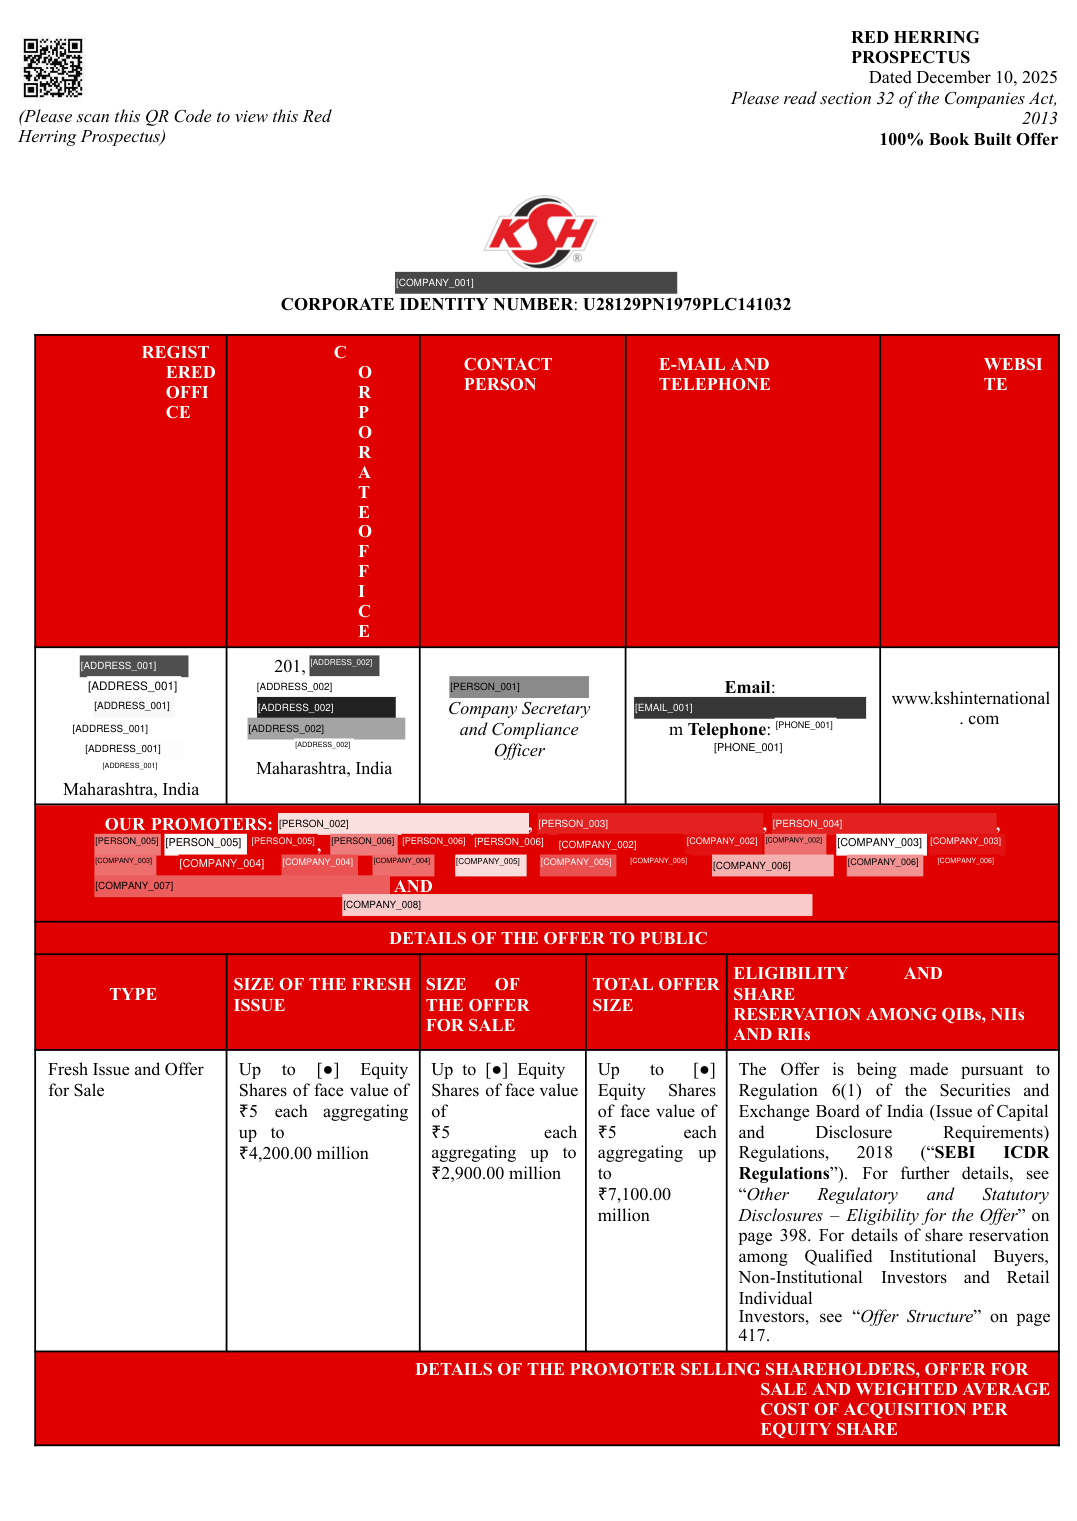
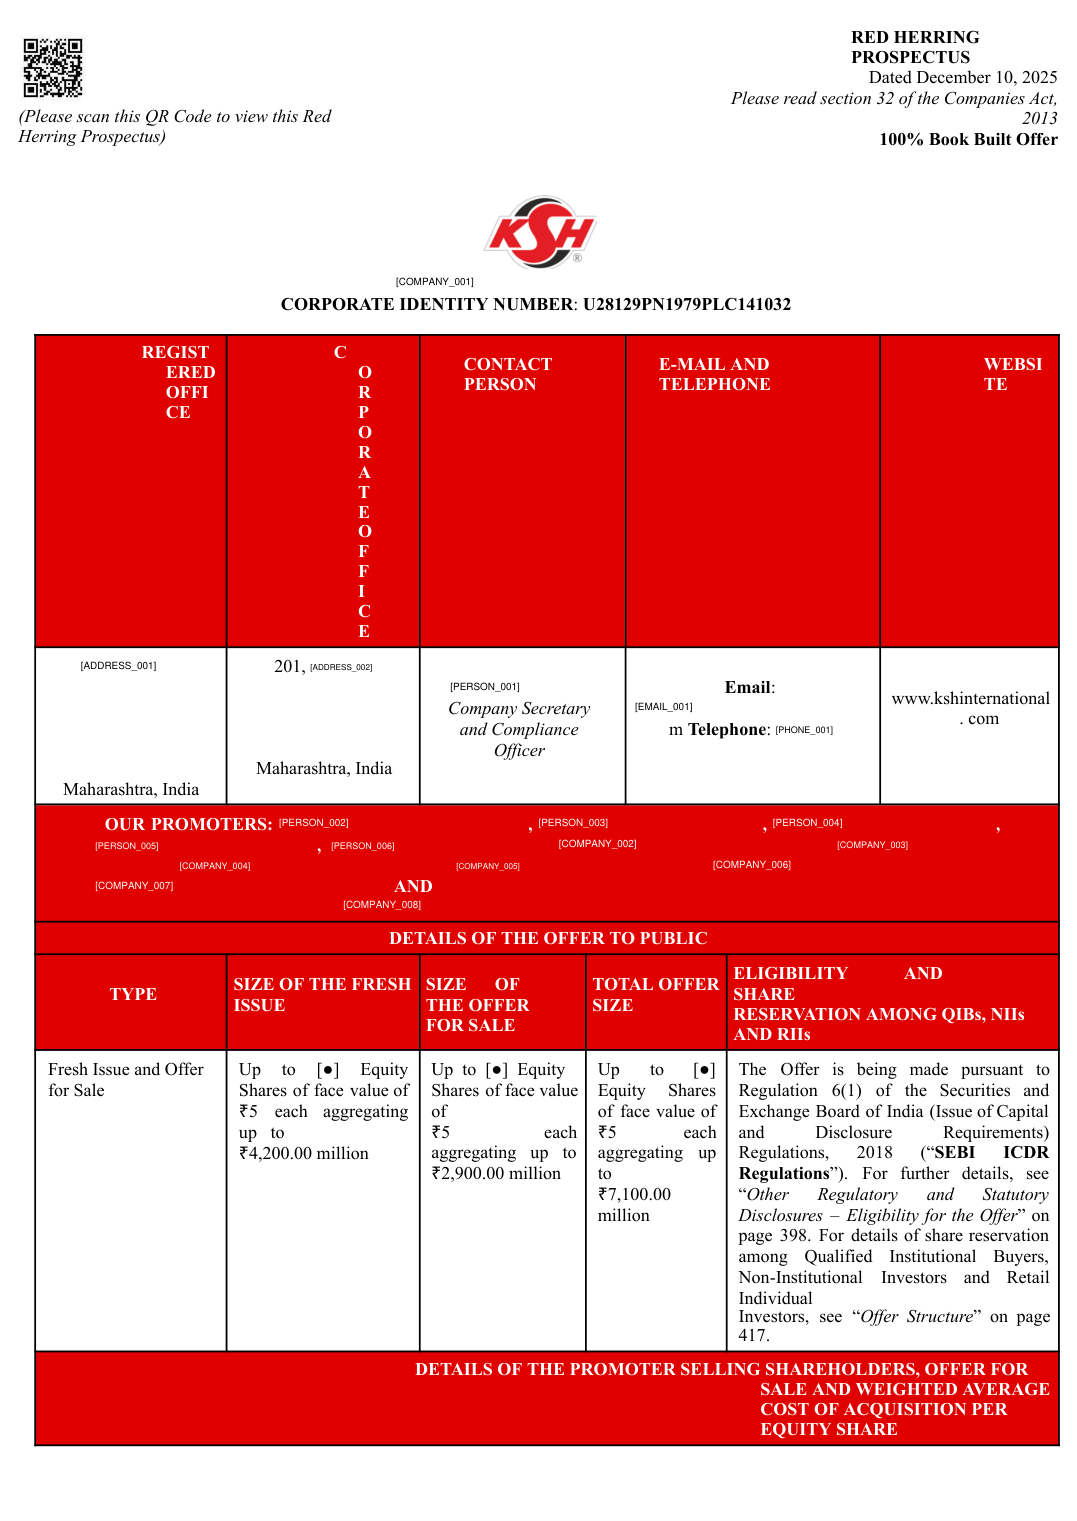
fix: handle narrow table cells in PDF redaction
- Aggressive font scaling (min 2.5pt) for replacement tokens
- Auto-abbreviate tokens that overflow narrow cells: [PERSON_007] -> [P_007] -> [#007]
- Blank out tokens in truly tiny cells instead of wrapping vertically
- Background color sampling via border pixel analysis preserved
- All 8 unit tests passing, 126-page full document test: 566 redactions in 16.6s

diff --git a/redact_pii.py b/redact_pii.py
@@ -152,6 +152,12 @@ def detect_people(text: str) -> list[Span]:
     return spans
 
 
+COMPANY_PREFIXES_TO_TRIM = [
+    "BOOK RUNNING LEAD MANAGERS", "REGISTRAR TO THE OFFER",
+    "LEAD MANAGERS", "REGISTRAR", "MANAGERS", "NAME OF THE ISSUER",
+    "ISSUER", "OUR COMPANY",
+]
+
 def detect_companies(text: str) -> list[Span]:
     spans = []
     names = sorted(set(COMPANY_NAMES), key=len, reverse=True)
@@ -159,9 +165,22 @@ def detect_companies(text: str) -> list[Span]:
         pattern = re.compile(r"(?<![A-Za-z])" + re.escape(name) + r"(?![A-Za-z])", re.I)
         spans.extend(Span(m.start(), m.end(), "COMPANY") for m in pattern.finditer(text))
     for m in COMPANY_SUFFIX_RE.finditer(text):
-        candidate = m.group(0).strip()
+        s, e = m.start(), m.end()
+        val = text[s:e]
+        # Strip registration numbers like INM000013004
+        reg_m = re.match(r"^[A-Z0-9]{8,25}\s+", val)
+        if reg_m:
+            s += reg_m.end()
+            val = text[s:e]
+        # Strip header prefixes
+        for p in sorted(COMPANY_PREFIXES_TO_TRIM, key=len, reverse=True):
+            pref_m = re.match(r"^(?:" + re.escape(p) + r")\s+", val, re.I)
+            if pref_m:
+                s += pref_m.end()
+                val = text[s:e]
+        candidate = val.strip()
         if len(candidate.split()) >= 2:
-            spans.append(Span(m.start(), m.end(), "COMPANY"))
+            spans.append(Span(s, e, "COMPANY"))
     return spans
 
 
@@ -454,8 +473,32 @@ def docx_to_docx(input_docx: Path, output_docx: Path) -> tuple[int, int, dict[st
 
 
 
+def get_rect_bg_color(page, rect) -> tuple[float, float, float]:
+    """Sample the true background color from the perimeter of the rect."""
+    import pymupdf as fitz
+    from collections import Counter
+    try:
+        clip_pix = page.get_pixmap(clip=rect, matrix=fitz.Matrix(1, 1))
+        w, h = clip_pix.width, clip_pix.height
+        if w == 0 or h == 0:
+            return (1.0, 1.0, 1.0)
+        border_pixels = []
+        for x in range(w):
+            border_pixels.append(clip_pix.pixel(x, 0)[:3])
+            border_pixels.append(clip_pix.pixel(x, h - 1)[:3])
+        for y in range(h):
+            border_pixels.append(clip_pix.pixel(0, y)[:3])
+            border_pixels.append(clip_pix.pixel(w - 1, y)[:3])
+        if not border_pixels:
+            return (1.0, 1.0, 1.0)
+        r, g, b = Counter(border_pixels).most_common(1)[0][0]
+        return (r / 255.0, g / 255.0, b / 255.0)
+    except Exception:
+        return (1.0, 1.0, 1.0)
+
+
 def pdf_to_pdf(pdf_path: Path, output_pdf: Path) -> tuple[int, int, dict[str, int]]:
-    """Redact PII directly inside the PDF using PyMuPDF's proper redaction workflow."""
+    """Redact PII directly inside the PDF preserving original background color and formatting."""
     import pymupdf as fitz  # PyMuPDF
 
     src = fitz.open(str(pdf_path))
@@ -469,47 +512,70 @@ def pdf_to_pdf(pdf_path: Path, output_pdf: Path) -> tuple[int, int, dict[str, in
         text = normalize(raw)
         _, reps = redact_text(text, factory)
 
-        # --- Phase 1: collect unique rects with their fake replacements ---
-        # Map rect-key → (pii_type, fake) so we can sample color before annotating
-        pending: dict[tuple, tuple[str, str]] = {}
+        # Track areas already redacted on this page to prevent stacking
+        covered_rects: list[fitz.Rect] = []
+
         for pii_type, original, fake in reps:
             hits = page.search_for(original, quads=False)
-            for rect in hits:
-                key = (round(rect.x0, 1), round(rect.y0, 1),
-                       round(rect.x1, 1), round(rect.y1, 1))
-                if key not in pending:
-                    pending[key] = (pii_type, fake)
+            if not hits:
+                continue
 
-        # --- Phase 2: sample background colour, then add redact annotation ---
-        for key, (pii_type, fake) in pending.items():
-            rect = fitz.Rect(key[0], key[1], key[2], key[3])
-
-            # Render a tiny pixmap of exactly this rect to read the bg colour
-            try:
-                clip_pix = page.get_pixmap(clip=rect, matrix=fitz.Matrix(1, 1))
-                cx = max(0, min(clip_pix.width  - 1, clip_pix.width  // 2))
-                cy = max(0, min(clip_pix.height - 1, clip_pix.height // 2))
-                r, g, b = clip_pix.pixel(cx, cy)[:3]
-                bg_fill = (r / 255.0, g / 255.0, b / 255.0)
-                # Perceived luminance — pick black or white text accordingly
-                lum = 0.299 * r + 0.587 * g + 0.114 * b
-                txt_color = (0.0, 0.0, 0.0) if lum > 128 else (1.0, 1.0, 1.0)
-            except Exception:
-                bg_fill = (1.0, 1.0, 1.0)
-                txt_color = (0.0, 0.0, 0.0)
-
-            page.add_redact_annot(
-                rect,
-                text=fake,
-                fontsize=7,
-                text_color=txt_color,
-                fill=bg_fill,       # matches actual cell background
-                align=0,
-            )
             total_replacements += 1
             category_counts[pii_type] = category_counts.get(pii_type, 0) + 1
 
-        # --- Phase 3: apply all redactions on this page in one pass ---
+            for line_idx, rect in enumerate(hits):
+                # Check overlap with existing rects on this page
+                if any(rect.intersects(c) and (rect & c).get_area() > 0.8 * rect.get_area() for c in covered_rects):
+                    continue
+                covered_rects.append(rect)
+
+                # Sample the actual background color from the border
+                bg_fill = get_rect_bg_color(page, rect)
+                r, g, b = bg_fill[0] * 255, bg_fill[1] * 255, bg_fill[2] * 255
+                lum = 0.299 * r + 0.587 * g + 0.114 * b
+                txt_color = (0.0, 0.0, 0.0) if lum > 128 else (1.0, 1.0, 1.0)
+
+                # For multi-line text (e.g. addresses), only display the replacement token on line 0
+                display_text = fake if line_idx == 0 else ""
+
+                # Compute optimal font size so text fits horizontally in the rect
+                fontsize = max(4.0, min(7.5, rect.height * 0.9))
+                if display_text:
+                    # Aggressively shrink font to fit in the rect width
+                    min_fs = 2.5
+                    while fontsize > min_fs:
+                        tw = fitz.get_text_length(display_text, fontname="helv", fontsize=fontsize)
+                        if tw <= rect.width * 0.95:
+                            break
+                        fontsize -= 0.25
+                    # If still doesn't fit, abbreviate the token
+                    tw = fitz.get_text_length(display_text, fontname="helv", fontsize=fontsize)
+                    if tw > rect.width * 0.95:
+                        # Try abbreviated form: [P_007] instead of [PERSON_007]
+                        abbrev = re.sub(r'\[([A-Z])[A-Z_]*?_(\d+)\]', r'[\1_\2]', display_text)
+                        tw2 = fitz.get_text_length(abbrev, fontname="helv", fontsize=fontsize)
+                        if tw2 <= rect.width * 0.95:
+                            display_text = abbrev
+                        else:
+                            # Last resort: use just the number tag
+                            short = re.sub(r'\[[A-Z_]+_(\d+)\]', r'[#\1]', display_text)
+                            tw3 = fitz.get_text_length(short, fontname="helv", fontsize=fontsize)
+                            if tw3 <= rect.width * 0.95:
+                                display_text = short
+                            else:
+                                # Blank it out if truly too narrow
+                                display_text = ""
+
+                page.add_redact_annot(
+                    rect,
+                    text=display_text,
+                    fontsize=fontsize,
+                    text_color=txt_color,
+                    fill=bg_fill,
+                    align=fitz.TEXT_ALIGN_LEFT,
+                )
+
+        # Apply all page redactions cleanly in one pass
         page.apply_redactions(images=fitz.PDF_REDACT_IMAGE_NONE)
 
     src.save(str(output_pdf), garbage=4, deflate=True)
